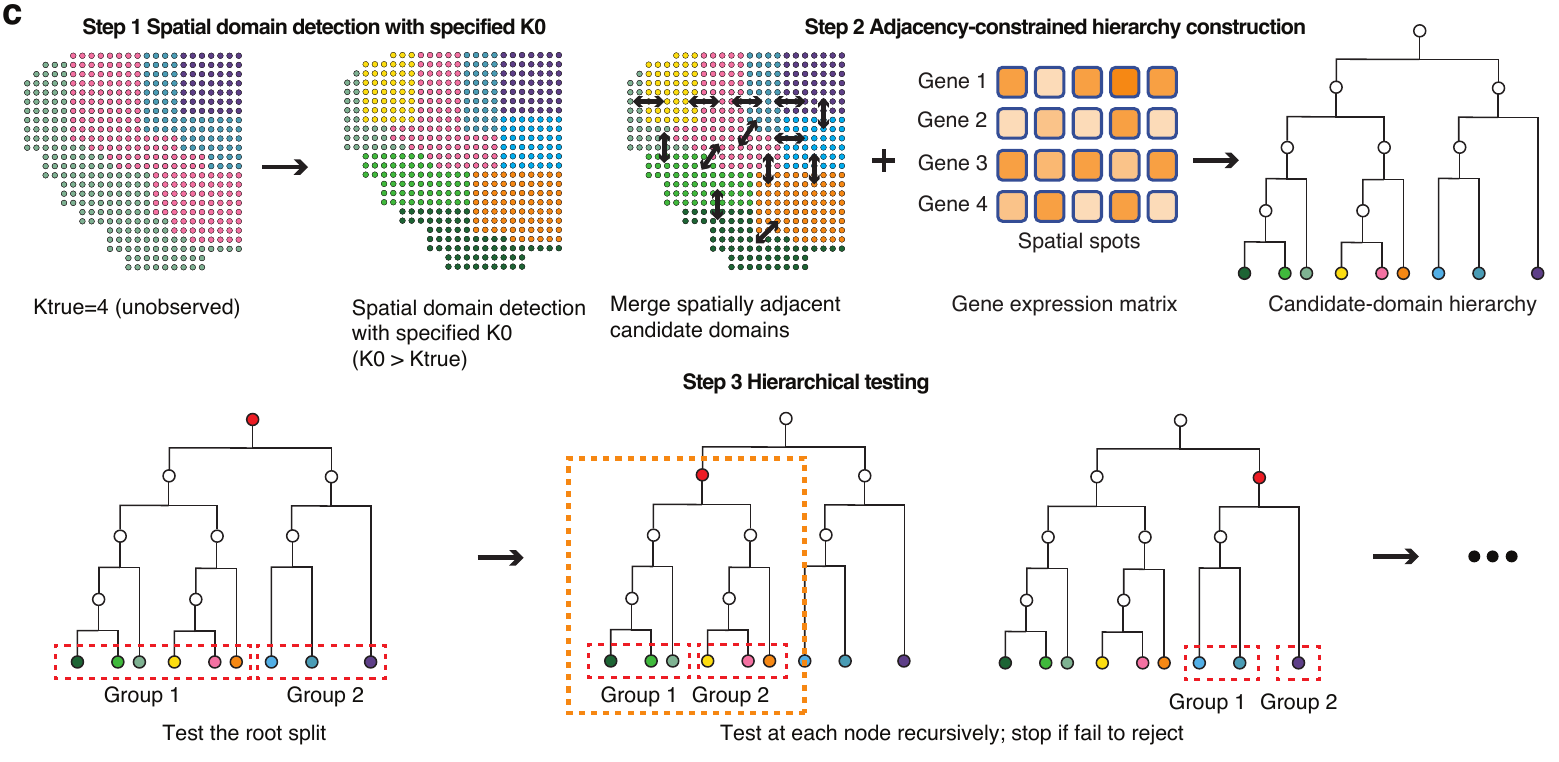
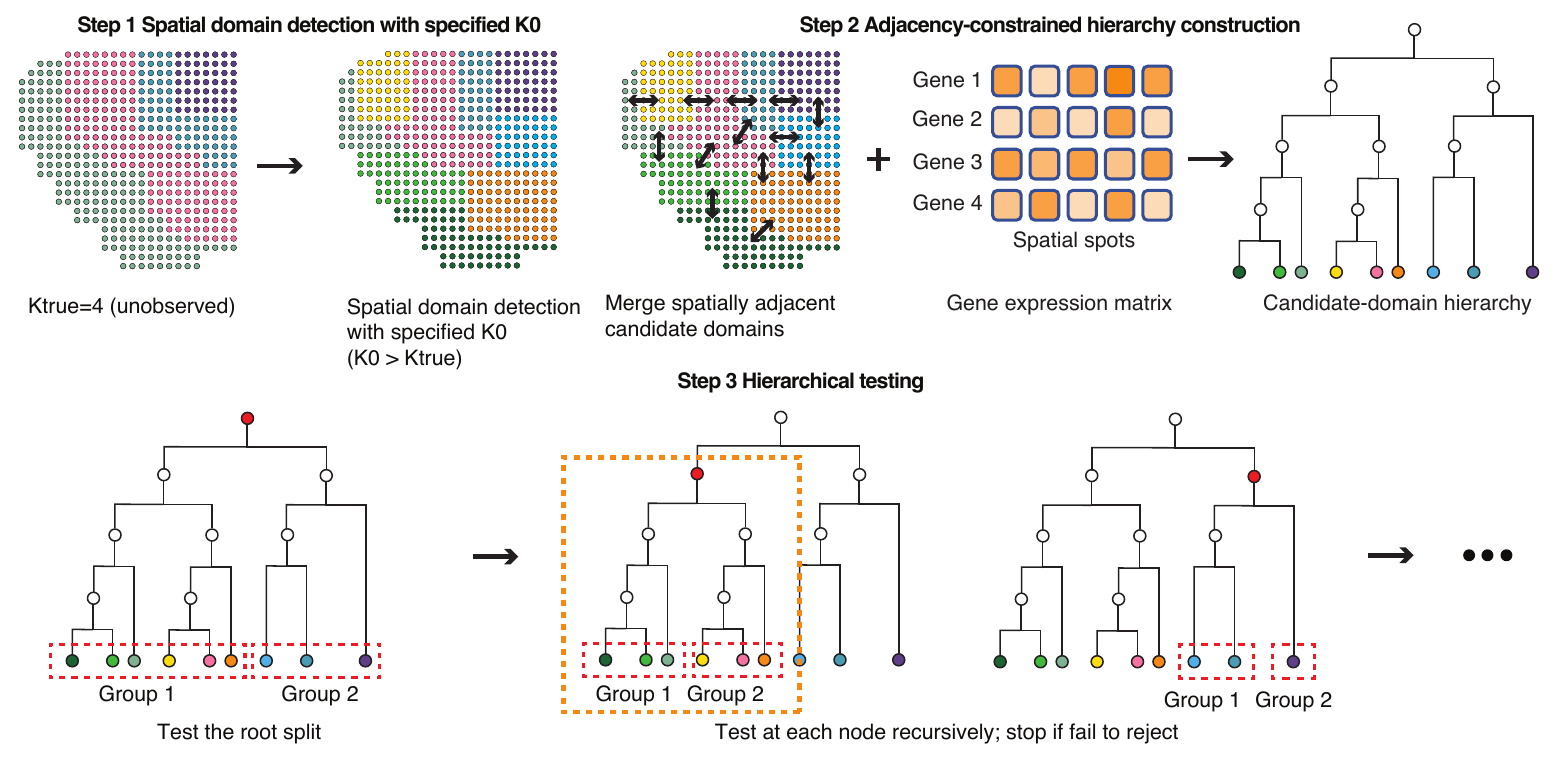
README header image, new workflow figure, tested platforms; website home page from pkgdown/index.md
The README opens with one image (man/figures/readme_header.png): the title and the subtitle
centred on the left half, the logo on the right half; the text starts below it. The website
keeps its own home page, pkgdown/index.md: the README with the title and the subtitle as text
and the logo in the right-hand column. The workflow figure of the README and of the "How
SigDoTS works" article is the new version made from the paper's Figure 1c without its panel
letter. "Tested on" names the R CMD check results on Windows, macOS and Linux. The PDF manual
is rebuilt.

diff --git a/pkgdown/index.md b/pkgdown/index.md
@@ -1,0 +1,293 @@
+<!-- The website's home page: README.md with its header image replaced by the title and the
+     subtitle as text. Written when the site is built; edit README.Rmd, not this file. -->
+
+
+<!-- README.md is generated from README.Rmd. Edit README.Rmd, then knit it. -->
+
+# SigDoTS <img src="man/figures/logo.png" align="right" height="240" alt="SigDoTS logo" />
+
+**Statistical significance testing for domain detection in spatial transcriptomics.**
+
+<!-- badges: start -->
+<!-- When the repository is public: the R-CMD-check badge from .github/workflows/R-CMD-check.yaml. -->
+<!-- badges: end -->
+
+Domain-detection methods (BANKSY, BayesSpace, Seurat/Scanpy clustering,
+…) divide a tissue section into spatial domains, but the number of
+domains comes from a parameter, not from a test: the same tissue can be
+cut into 3, 5 or 8 domains depending on the setting, and some of the
+cuts only separate variation that exists inside one domain. SigDoTS
+tests the cuts. Starting from an over-segmentation (more candidate
+domains than you expect), it arranges the candidate domains in a tree by
+spatial adjacency and expression similarity and tests the splits from
+the top of the tree down. Each test compares how clearly the two sides
+of a split separate with how clearly the same clustering separates data
+simulated from a *single-domain* model, which keeps the gene-gene
+covariance and the spatial correlation of the noise estimated from the
+data. A split is kept only when it is significant, with the family-wise
+error rate controlled over the whole tree; the parts that are not split
+further are the domains.
+
+<img src="man/figures/workflow_steps.png" alt="The three steps of SigDoTS: initial candidate domains, a spatially constrained hierarchy, and tests from the root downward" width="100%" />
+
+*The three steps of SigDoTS (Figure 1c of the paper): a domain-detection
+pipeline gives `K0` initial candidate domains; spatially adjacent,
+expression-similar candidates are merged into a hierarchy; the splits
+are tested from the root downward, and a branch stops at the first split
+that is not significant.*
+
+## Key features
+
+- **Tests, not thresholds.** Every retained split has passed a test
+  against a single-domain null model that includes within-domain spatial
+  correlation and gene-gene covariance; the family-wise error rate over
+  all tests is controlled at `alpha` (0.05 by default).
+- **Accounts for selection.** The same clustering procedure that
+  produced the candidate domains is applied to every simulated dataset,
+  so the “separation that clustering always finds” is part of the
+  reference distribution.
+- **Works with your objects.** Takes a Seurat object, a
+  SpatialExperiment object, or plain matrices; writes the domains back
+  with `add_domains()`.
+- **Works with your pipeline.** Start from the built-in k-means, from
+  BANKSY or BayesSpace, or from any labels you already have
+  (`candidate_labels`).
+- **Readable results.** `print()` draws the tested tree in the console;
+  `summary()` lists every test with its statistic, p-value and level;
+  `plot()` draws the domains, the candidate domains, the tree and the
+  estimated spatial correlation.
+- **Reproducible and parallel.** Same data, arguments and seed give the
+  same result on any number of cores.
+- **Scales.** A Vecchia approximation (default) keeps memory roughly
+  linear in the number of spots; the exact computation is available for
+  smaller samples.
+
+## Installation
+
+SigDoTS needs R 4.3.0 or later. It depends on the CRAN packages GpGp,
+fields, igraph, Matrix, RANN and ggplot2, which are installed
+automatically when SigDoTS is installed from GitHub.
+
+``` r
+# install.packages("remotes")
+remotes::install_github("Yan-Lab-MSU/SigDoTS")
+```
+
+Or from a downloaded package file (the dependencies are then not
+installed automatically):
+
+``` r
+install.packages(c("GpGp", "fields", "igraph", "RANN", "ggplot2"))
+install.packages("path/to/SigDoTS_0.2.5.8.tar.gz", repos = NULL, type = "source")
+```
+
+Installation time, measured on 2026-10-16 on a Linux computer that
+already had R 4.3.2 and the CRAN packages above except GpGp: 36 seconds
+for GpGp (downloaded and compiled from CRAN) and 5 seconds for SigDoTS.
+A computer without igraph, RANN and ggplot2 needs a few minutes more: in
+clean Linux containers (2026-11-01; R 4.4.2 and R 4.6.1, empty package
+library, binary packages from Posit Package Manager) the line above took
+3 to 7 minutes, and SigDoTS 7 to 10 seconds. SigDoTS itself contains no
+compiled code. GpGp does, but on Windows and macOS `install.packages()`
+normally installs a ready-made binary of it from CRAN, so no compiler is
+needed; only if R insists on compiling it from source are Rtools
+(Windows) or the Xcode command-line tools (macOS) required.
+
+On Linux, igraph needs the GLPK library of the operating system. If
+`library(SigDoTS)` stops with “libglpk.so.40: cannot open shared object
+file”, install the system libraries igraph uses and then igraph again,
+for example on Ubuntu or Debian:
+
+``` bash
+sudo apt-get install libglpk-dev libgmp-dev libxml2-dev
+```
+
+(on Fedora: `sudo dnf install glpk-devel gmp-devel libxml2-devel`).
+
+Tested on Windows, macOS and Linux: `R CMD check --as-cran` passes on
+Windows (R 4.6.2), macOS (R 4.6.2, Apple silicon) and Ubuntu (R 4.5.3, R
+4.6.2 and the development version of R) on GitHub Actions, and in clean
+Ubuntu 24.04 containers with R 4.6.1; the package also runs with R
+4.3.2, R 4.4.2 and R 4.5.1 on Linux.
+
+Optional, only to make the candidate domains with BANKSY or BayesSpace:
+
+``` r
+install.packages("BiocManager")
+BiocManager::install(c("Banksy", "SingleCellExperiment", "SummarizedExperiment"))   # or "BayesSpace"
+```
+
+## Quick start
+
+The package includes a small simulated dataset: 900 spots on a 30 x 30
+grid, 200 genes, three true domains of 300 spots each.
+
+``` r
+library(SigDoTS)
+dim(sigdots_example$x)          # spots x genes
+#> [1] 900 200
+time <- system.time(
+  fit <- sigdots(sigdots_example$x, sigdots_example$coords, K0 = 5)
+)
+#> SigDoTS: 900 spots, 200 genes; 5 candidate domains; testing from the top of the tree
+#>   test at node 9 (900 spots, 5 candidate domains): split (19 simulated datasets) [10 s]
+#>   test at node 7 (300 spots, 2 candidate domains): no split (10 simulated datasets) [2 s]
+#>   test at node 8 (600 spots, 3 candidate domains): split (30 simulated datasets) [7 s]
+#>   test at node 6 (300 spots, 2 candidate domains): no split (15 simulated datasets) [3 s]
+fit
+#> SigDoTS: 900 spots, 200 genes
+#> Number of domains: 3   (spots per domain: 300, 300, 300)
+#> 
+#> Split tree ([node] spots, candidate domains: decision):
+#> [9] 900 spots, candidate domains 1,2,3,4,5: split
+#> ├── [7] 300 spots, candidate domains 2,3: no split   => DOMAIN 1
+#> │   ├── candidate domain 2  109 spots
+#> │   └── candidate domain 3  191 spots
+#> └── [8] 600 spots, candidate domains 1,4,5: split
+#>     ├── [4] 300 spots, candidate domain 4   => DOMAIN 2
+#>     └── [6] 300 spots, candidate domains 1,5: no split   => DOMAIN 3
+#>         ├── candidate domain 1  103 spots
+#>         └── candidate domain 5  197 spots
+#> 
+#> Use summary() for the tests.
+```
+
+Run time of this demo: 22 seconds on one core of an AMD EPYC 9654
+(Linux). It also ran on a macOS laptop (time not measured).
+
+The three domains match the three true regions:
+
+``` r
+table(domain = domains(fit)$domain, true_region = sigdots_example$region)
+#>       true_region
+#> domain   1   2   3
+#>      1   0   0 300
+#>      2   0 300   0
+#>      3 300   0   0
+```
+
+``` r
+plot(fit)
+```
+
+<img src="man/figures/README-domains-plot-1.png" width="70%" />
+
+``` r
+plot(fit, type = "tree")
+```
+
+<img src="man/figures/README-tree-plot-1.png" width="90%" />
+
+`summary(fit)` adds a table of the tests (statistic, number of simulated
+datasets, p-value, level, decision). The [Getting
+started](https://yan-lab-msu.github.io/SigDoTS/articles/SigDoTS.html)
+tutorial explains every line of this output.
+
+## Input data format
+
+`sigdots()` takes the data in the form you have it:
+
+| You have                                                           | Call                                            |
+|--------------------------------------------------------------------|-------------------------------------------------|
+| a **Seurat** object (normalised, with variable genes set)          | `sigdots(obj, K0 = 10)`                         |
+| a **SpatialExperiment** object (with a `logcounts` assay)          | `sigdots(spe, K0 = 10, genes = hvg)`            |
+| a raw **counts matrix** (genes x spots) and a coordinate table     | `sigdots(sigdots_prepare(counts), xy, K0 = 10)` |
+| a normalised **expression matrix** (spots x genes) and coordinates | `sigdots(x, xy, K0 = 10)`                       |
+
+plus one number, `K0`, the number of candidate domains (more than the
+number of domains you expect). Instead of `K0` you can give your own
+over-segmentation with `candidate_labels`, a vector or the name of a
+metadata column. `add_domains(obj, fit)` writes the domains back into a
+Seurat or SpatialExperiment object. See [Using SigDoTS on your own
+data](https://yan-lab-msu.github.io/SigDoTS/articles/own-data.html).
+
+## Tutorials
+
+- [Getting
+  started](https://yan-lab-msu.github.io/SigDoTS/articles/SigDoTS.html):
+  the demo above, line by line.
+- [Real data
+  application](https://yan-lab-msu.github.io/SigDoTS/articles/dlpfc.html):
+  a public Visium section of human brain cortex with manually labelled
+  layers, from download to the domains, including two regions of
+  interest.
+- [Using SigDoTS on your own
+  data](https://yan-lab-msu.github.io/SigDoTS/articles/own-data.html):
+  the five input forms (Seurat, SpatialExperiment, Scanpy file, counts,
+  matrices), the choice of the candidate domains, exact or approximate
+  spatial computation, run time and memory.
+- [Troubleshooting and
+  FAQ](https://yan-lab-msu.github.io/SigDoTS/articles/faq.html): every
+  error and warning the package can give, and what to do.
+- [How SigDoTS
+  works](https://yan-lab-msu.github.io/SigDoTS/articles/how-it-works.html):
+  the method step by step, without formulas.
+
+All but the real-data application are also installed with the package:
+`vignette("SigDoTS")`, `vignette("own-data")`, `vignette("faq")`,
+`vignette("how-it-works")`.
+
+## How long does it take?
+
+Measured in the paper’s scalability experiment (simulated data with
+2,000 genes and three domains, `K0 = 5`, exact spatial computation, 10
+cores; mean of 2 datasets per size; peak memory of the whole run
+including the 10 worker processes):
+
+|  Spots | Run time | Peak memory |
+|-------:|---------:|------------:|
+|    400 |     14 s |     2.7 GiB |
+|    900 |     32 s |     3.5 GiB |
+|  1,600 |  2.0 min |     5.3 GiB |
+|  2,500 |  4.3 min |     6.1 GiB |
+|  5,041 |  9.2 min |     9.6 GiB |
+| 10,000 |   18 min |    19.8 GiB |
+
+With the default Vecchia approximation, 2,500 spots took a median of 4.0
+minutes on three-domain data and 1.4 minutes on one-domain data (10
+cores, 680 datasets). Beyond about 20,000 spots use the Vecchia
+approximation: the exact computation at 50,176 spots took 12 hours and
+206 GiB.
+
+## How SigDoTS works, in brief
+
+1.  **Candidate domains.** k-means on the first 15 principal components
+    (or BayesSpace, BANKSY, or your own labels) divides the spots into
+    `K0` candidate domains.
+2.  **Tree.** Groups that touch in space are merged pairwise, the most
+    similar first (Ward’s criterion on the candidate domains’ means in
+    the first 15 principal components), into a binary tree.
+3.  **Tests from the top.** At each split, the statistic is the
+    within-group sum of squares divided by the total sum of squares,
+    over all genes (smaller means a clearer split). A single-domain
+    model is fitted to the spots of that part of the tree: a
+    matrix-normal model whose spatial correlation (strength `eta`, range
+    `ell`, Matérn 3/2) is estimated from pairs of spots within the same
+    candidate domain, and whose gene covariance is estimated after
+    removing each candidate domain’s mean. Datasets simulated from it
+    are clustered in the same way, and the p-value is (1 + the number of
+    them that split at least as clearly as the data) / (1 + the number
+    of simulated datasets); a normal approximation that needs fewer
+    simulated datasets is available
+    (`pvalue_method = "normal_adaptive"`). A test on m of the n spots
+    uses the level `alpha * (m - 1) / (n - 1)`.
+4.  **Domains.** A part is split only when its test is significant;
+    otherwise it is a domain.
+
+## Reproducing the paper
+
+The code of the simulation study and of the real-data analyses, and the
+processed data, will be in a separate repository
+(`Yan-Lab-MSU/SigDoTS_source`, to be published with the paper). The
+DLPFC Visium data are available through the spatialLIBD package.
+
+## Citation
+
+Manuscript in preparation. Until it is published, please cite the
+package: `citation("SigDoTS")`.
+
+## Licence and contact
+
+SigDoTS is released under the MIT licence ([LICENSE.md](LICENSE.md)).
+Questions and bug reports: open an issue on GitHub, or write to the
+maintainer (`maintainer("SigDoTS")`).

diff --git a/README.md b/README.md
@@ -1,14 +1,11 @@
 
 <!-- README.md is generated from README.Rmd. Edit README.Rmd, then knit it. -->
 
-# SigDoTS <img src="man/figures/logo.png" align="right" height="240" alt="SigDoTS logo" />
+<img src="man/figures/readme_header.png" width="100%" alt="SigDoTS: statistical significance testing for domain detection in spatial transcriptomics" />
 
 <!-- badges: start -->
 <!-- When the repository is public: the R-CMD-check badge from .github/workflows/R-CMD-check.yaml. -->
 <!-- badges: end -->
-
-**Statistical significance testing for domain detection in spatial
-transcriptomics.**
 
 Domain-detection methods (BANKSY, BayesSpace, Seurat/Scanpy clustering,
 …) divide a tissue section into spatial domains, but the number of
@@ -102,9 +99,11 @@ sudo apt-get install libglpk-dev libgmp-dev libxml2-dev
 
 (on Fedora: `sudo dnf install glpk-devel gmp-devel libxml2-devel`).
 
-Tested on: Linux (Ubuntu 22.04 with R 4.3.2 and R 4.5.1; clean Ubuntu
-24.04 containers with R 4.4.2 and R 4.6.1, where `R CMD check --as-cran`
-passes on R 4.6.1) and macOS (R 4.x). Windows: not yet tested.
+Tested on Windows, macOS and Linux: `R CMD check --as-cran` passes on
+Windows (R 4.6.2), macOS (R 4.6.2, Apple silicon) and Ubuntu (R 4.5.3, R
+4.6.2 and the development version of R) on GitHub Actions, and in clean
+Ubuntu 24.04 containers with R 4.6.1; the package also runs with R
+4.3.2, R 4.4.2 and R 4.5.1 on Linux.
 
 Optional, only to make the candidate domains with BANKSY or BayesSpace:
 
@@ -126,10 +125,10 @@ time <- system.time(
   fit <- sigdots(sigdots_example$x, sigdots_example$coords, K0 = 5)
 )
 #> SigDoTS: 900 spots, 200 genes; 5 candidate domains; testing from the top of the tree
-#>   test at node 9 (900 spots, 5 candidate domains): split (19 simulated datasets) [11 s]
+#>   test at node 9 (900 spots, 5 candidate domains): split (19 simulated datasets) [10 s]
 #>   test at node 7 (300 spots, 2 candidate domains): no split (10 simulated datasets) [2 s]
 #>   test at node 8 (600 spots, 3 candidate domains): split (30 simulated datasets) [7 s]
-#>   test at node 6 (300 spots, 2 candidate domains): no split (15 simulated datasets) [2 s]
+#>   test at node 6 (300 spots, 2 candidate domains): no split (15 simulated datasets) [3 s]
 fit
 #> SigDoTS: 900 spots, 200 genes
 #> Number of domains: 3   (spots per domain: 300, 300, 300)
@@ -148,7 +147,7 @@ fit
 #> Use summary() for the tests.
 ```
 
-Run time of this demo: 24 seconds on one core of an AMD EPYC 9654
+Run time of this demo: 22 seconds on one core of an AMD EPYC 9654
 (Linux). It also ran on a macOS laptop (time not measured).
 
 The three domains match the three true regions:
